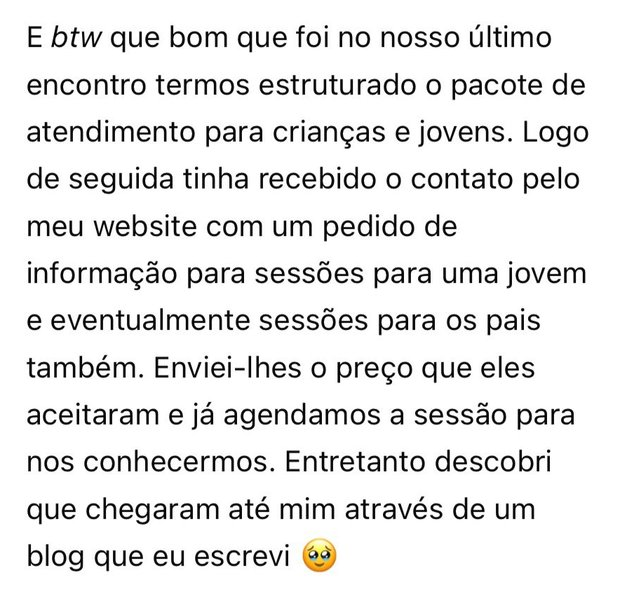
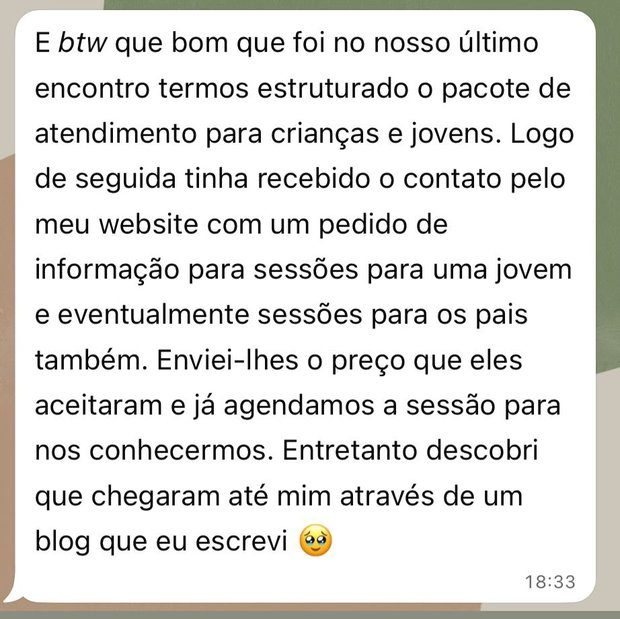
CEEN: testemunho novo com hora e fundo do WhatsApp
Claude-Session: https://claude.ai/code/session_01WSCiYS8h1nQStA83PGajsF

diff --git a/ceen.html b/ceen.html
@@ -155,7 +155,7 @@
   .testimonial-photos-ph:hover::after { display:none; }
   .testimonial-photos-ph.open::after { content:'toca de novo para fechar'; }
   .testimonial-photos-ph .ph { border-radius:12px; overflow:hidden; background:transparent; border:none; padding:0; color:var(--gold-deep); font-family:'Lora',serif; font-size:11px; text-align:center; }
-  .fb-msg { display:block; width:min(420px, 100%); height:auto; margin:1.3rem auto 0; border-radius:16px; box-shadow:0 1px 8px rgba(26,20,16,0.14); }
+  .fb-msg { display:block; width:min(420px, 100%); height:auto; margin:1.3rem auto 0; border-radius:12px; }
   .testimonial-photos-ph .ph img { width:100%; height:auto; display:block; border-radius:12px; }
   @media (max-width:560px){ .testimonial-photos-ph{ width:100%; } .testimonial-photos-ph.open{ grid-template-columns:1fr; } }
 
@@ -946,7 +946,7 @@
       <p class="q1" style="white-space:normal;"><strong>"Logo de seguida tinha recebido o contacto pelo meu website"</strong></p>
     </blockquote>
     <p style="font-size:15px;">Depois de estruturarmos juntas um novo serviço, esta cliente partilhou o que aconteceu a seguir:</p>
-    <img class="fb-msg" src="feedback-cliente-pacote.jpg" width="620" height="591" alt="Mensagem de uma cliente: depois de estruturarmos o pacote de atendimento para crianças e jovens, recebeu logo um pedido pelo website, o preço foi aceite e a sessão já está marcada.">
+    <img class="fb-msg" src="feedback-cliente-pacote.jpg" width="620" height="619" alt="Mensagem de uma cliente: depois de estruturarmos o pacote de atendimento para crianças e jovens, recebeu logo um pedido pelo website, o preço foi aceite e a sessão já está marcada.">
   </div>
 </section>
 
